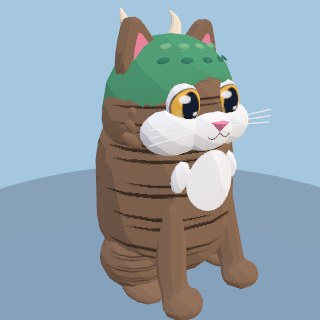
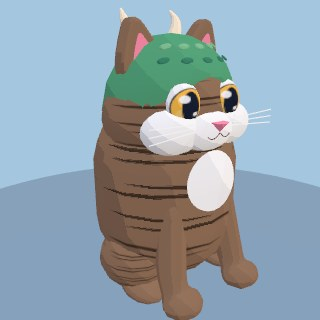
Smooth cat chest and cheek silhouettes without raised fur blobs

diff --git a/src/models.js b/src/models.js
@@ -1067,7 +1067,12 @@ export function createCat(furColor = 0xf0a830, opts = {}) {
   const fitBody=g=>{
     const p=g.attributes.position;
     for(let i=0;i<p.count;i++){
-      const y=p.getY(i),w=(type.belly-1)*(1-THREE.MathUtils.smoothstep(y,1.1,1.6));
+      const y=p.getY(i);
+      // Long fur broadens the continuous upper torso; separate surface puffs
+      // read as lumps, especially on pale coats. The chest decal uses this
+      // same deformation so its marking stays flush with the body.
+      const ruff=(type.ruff||0)*.035*Math.exp(-(((y-1.28)/.38)**2));
+      const w=(type.belly-1)*(1-THREE.MathUtils.smoothstep(y,1.1,1.6))+ruff;
       const curl=type.curl ? .018*Math.sin(Math.atan2(p.getZ(i),p.getX(i))*10+y*18):0;
       p.setX(i,p.getX(i)*(1+w+curl));p.setZ(i,p.getZ(i)*(1+w+curl));
     }
@@ -1314,20 +1319,6 @@ export function createCat(furColor = 0xf0a830, opts = {}) {
     whiskers[sx < 0 ? "L" : "R"] = pivot;
   }
 
-  if(type.ruff){
-    for(let i=-2;i<=2;i++){
-      const tuft=new THREE.Mesh(new THREE.SphereGeometry(.145*type.ruff,8,6),chestMat);
-      tuft.scale.set(.95,1.35,.55);tuft.rotation.z=i*.18;tuft.position.set(i*.19,1.28+Math.abs(i)*.045,.84-Math.abs(i)*.025);catStatic.push(tuft);
-    }
-  }
-  if(type.tufts||type.curl){
-    for(const sx of [-1,1])for(let i=0;i<3;i++){
-      const tuft=new THREE.Mesh(new THREE.SphereGeometry(type.curl ? .105 : .115,8,5),fur);
-      tuft.scale.set(type.curl?1:.72,type.curl?1:1.5,.7);
-      tuft.position.set(sx*(.69+i*.035),-.04-i*.12,.30);
-      tuft.rotation.z=-sx*(.75+i*.16);headStatic.push(tuft);
-    }
-  }
   if(type.folds){
     for(let i=0;i<3;i++){
       const fold=new THREE.Mesh(new THREE.TorusGeometry(.23+i*.05,.011,4,12,1.7),fur);

diff --git a/src/cat-types.js b/src/cat-types.js
@@ -2,7 +2,7 @@
 // accessory anchors; changes are baked only while constructing a model.
 const families = {
   classic: { cheek:1, jaw:1, belly:1, tail:1, plume:1 },
-  longhair: { cheek:1.16, jaw:1.08, belly:1.04, tail:1, plume:1.7, ruff:1, tufts:1 },
+  longhair: { cheek:1.16, jaw:1.08, belly:1.04, tail:1, plume:1.7, ruff:1 },
   plush: { cheek:1.20, jaw:1.12, belly:1.06, tail:.85, plume:1.25 },
   masked: { cheek:1.08, jaw:1.03, belly:1, tail:1, plume:1.4, ruff:.6 },
   sleek: { cheek:.83, jaw:.91, belly:.91, tail:1.02, plume:.82 },
@@ -12,7 +12,7 @@ const families = {
 const type=(label,family,extra={})=>({label,family,ear:'classic',...families[family],...extra});
 export const CAT_TYPES = {
   classic:type('Classic','classic'),
-  maine:type('Maine Coon','longhair',{cheek:1.2,jaw:1.15,tufts:1.2}),
+  maine:type('Maine Coon','longhair',{cheek:1.2,jaw:1.15}),
   forest:type('Norwegian Forest','longhair',{ruff:1.2,cheek:1.10,plume:1.85}),
   persian:type('Persian','longhair',{cheek:1.28,jaw:1.16,ear:'round',tail:.8,plume:1.8}),
   angora:type('Turkish Angora','longhair',{cheek:1.06,belly:.95,plume:1.65,ruff:.65}),

diff --git a/docs/art-refresh/cat-roster/README.md b/docs/art-refresh/cat-roster/README.md
@@ -19,7 +19,7 @@ Six new morphology families supplement the original shape. The same animation ri
 | Distinctive ears/tails | Scottish Fold, American Curl, Manx, Japanese Bobtail |
 | Athletic | Bombay, Ocicat, Egyptian Mau, Toyger, Snow Bengal |
 
-Details include sculpted cheek tufts and chest ruffs, tapered bushy tails, coat waves, a few Sphynx forehead folds, folded/curled/rounded/wider ears, a Manx without a visible tail, a pom-shaped bobtail and two different iris colors on Opal. Coats add **bicolor, mitted points, Van patches, ticking and broad tiger stripes** to the original 12 patterns. Markings remain procedural canvas textures generated once; fur uses opaque geometry.
+Details include smooth fuller cheeks and continuous chest silhouettes, tapered bushy tails, coat waves, a few Sphynx forehead folds, folded/curled/rounded/wider ears, a Manx without a visible tail, a pom-shaped bobtail and two different iris colors on Opal. Coats add **bicolor, mitted points, Van patches, ticking and broad tiger stripes** to the original 12 patterns. Markings remain procedural canvas textures generated once; fur uses opaque geometry.
 
 Headwear openings are generated from each ear shape's convex envelope, with separate geometry-cache keys. The crown of the head, facial attachment points, neck band and paw reach remain standardized so the existing accessory collection is interchangeable. Hats anchor the ears while the head and accessories retain their animation.
 
@@ -32,13 +32,21 @@ Headwear openings are generated from each ear shape's convex envelope, with sepa
 - Old saves used index 14 for Custom Cat. Loading an old save migrates that slot to the new custom index. New saves carry a version and an explicit custom marker, preserving custom selections across later roster expansions. The old outfit, colors and name are retained.
 - The changes are cosmetic: collider dimensions, driving stats, abilities and race field size are unchanged.
 
+## Smooth silhouette correction
+
+The separate chest and cheek puffs read as lumps on pale cats. They have been removed from all 12 affected types, including Persian and Turkish Angora. Long-haired types retain broad, continuous chest volume by shaping the torso and its matching coat decal together; wide cheeks, ears and tails keep each type recognizable. Curly types retain their subtle continuous coat waves without raised cheek beads.
+
+![Marple after smoothing](smooth-cat-16.png) ![Duchess after smoothing](smooth-cat-17.png)
+
+Each affected cat loses **384–784 triangles**, with no increase in material batches or per-frame work. Timber also drops from 21 to 20 batches. [Per-cat comparison against `309e8e0`](smooth-silhouettes.json). All 40 cats were rendered again on WebGL/WebGPU, the 3,321-combination compatibility sweep passed, and catalog portraits and all galleries were regenerated. The frame measurements below are from the preceding roster build; this correction was checked for geometry cost, not re-benchmarked for FPS.
+
 ## Runtime cost
 
 Morphology, coat painting, hat openings and geometry merging happen during model construction. The original rig updates each frame; there is no new fur shader, simulation, light or per-frame morphology work. Each race still constructs six racers. Catalog portraits are static, lazy-loaded images rather than 40 live models.
 
-Cheek/chest additions merge into the existing rigid clusters. Tail geometry is shared by fullness recipe; the existing bounded model/material/texture caches remain in use. Some types add material batches (for example, Opal's second iris color), so this is not a claim of zero rendering cost.
+Cheek and chest shaping uses the existing surfaces, with no separate fur-puff meshes. Tail geometry is shared by fullness recipe; the existing bounded model/material/texture caches remain in use. Some types add material batches (for example, Opal's second iris color), so this is not a claim of zero rendering cost.
 
-The compatibility sweep covers **3,321** type × accessory × pose combinations (27 × 41 × 3), with a maximum **11,087 triangles and 24 material batches** per complete cat. These budget counts include hidden rig meshes and are not renderer frame timings. [Compatibility results](compatibility.json) · [Native WebGL/WebGPU preset metrics](metrics.json).
+The compatibility sweep covers **3,321** type × accessory × pose combinations (27 × 41 × 3), with a maximum **10,667 triangles and 24 material batches** per complete cat. These budget counts include hidden rig meshes and are not renderer frame timings. [Compatibility results](compatibility.json) · [Native WebGL/WebGPU preset metrics](metrics.json).
 
 Native Chrome on Apple M3 Pro, WebGPU High, 1100 × 700 drawing buffer, six racers in Meadow; 8-second warm-up followed by 40 seconds (2,400 sampled frames per run). Runs executed sequentially.
 

diff --git a/docs/art-refresh/cat-roster/roster-table.md b/docs/art-refresh/cat-roster/roster-table.md
@@ -14,25 +14,25 @@
 | Moo | Classic | Collar | 7,516 | 19 |
 | Misty | Classic | Wizard Hat | 8,100 | 19 |
 | Biscuit | Classic | Chef Hat | 7,926 | 19 |
-| Timber | Maine Coon | Dragon Hood | 9,728 | 21 |
-| Fjord | Norwegian Forest | Viking Helmet | 9,756 | 20 |
-| Marple | Persian | Detective Hat | 9,609 | 16 |
-| Duchess | Turkish Angora | Crown | 8,402 | 17 |
-| Russet | Somali | Scarf | 8,144 | 19 |
+| Timber | Maine Coon | Dragon Hood | 8,944 | 20 |
+| Fjord | Norwegian Forest | Viking Helmet | 8,972 | 20 |
+| Marple | Persian | Detective Hat | 8,825 | 16 |
+| Duchess | Turkish Angora | Crown | 7,618 | 17 |
+| Russet | Somali | Scarf | 7,360 | 19 |
 | Winston | British Shorthair | Top Hat | 8,302 | 19 |
 | Pudding | Exotic Shorthair | Mushroom Cap | 8,593 | 18 |
 | Pebble | Chartreux | Rain Hat | 8,167 | 16 |
-| Crumpet | Selkirk Rex | Straw Sunhat | 9,377 | 16 |
-| Marshmallow | Ragdoll | Unicorn Horn | 9,336 | 20 |
-| Chai | Birman | Flower Lei | 9,996 | 19 |
-| Skipper | Turkish Van | Pirate Hat | 8,731 | 19 |
+| Crumpet | Selkirk Rex | Straw Sunhat | 8,993 | 16 |
+| Marshmallow | Ragdoll | Unicorn Horn | 8,936 | 20 |
+| Chai | Birman | Flower Lei | 9,596 | 19 |
+| Skipper | Turkish Van | Pirate Hat | 8,331 | 19 |
 | Opal | Khao Manee | Cat-Eye Goggles | 7,752 | 17 |
 | Orbit | Sphynx | Space Helmet | 10,104 | 18 |
-| Fizz | Devon Rex | Bee Antennae | 8,732 | 19 |
-| Noodle | Cornish Rex | Oversized Mustache | 7,880 | 16 |
+| Fizz | Devon Rex | Bee Antennae | 8,348 | 19 |
+| Noodle | Cornish Rex | Oversized Mustache | 7,496 | 16 |
 | Saffron | Abyssinian | Sombrero | 9,770 | 19 |
 | Dumpling | Scottish Fold | Rubber-duck Hat | 7,988 | 19 |
-| Clover | American Curl | Frog Hood | 9,697 | 19 |
+| Clover | American Curl | Frog Hood | 9,297 | 19 |
 | Rumpus | Manx | Bandana | 7,496 | 20 |
 | Yoshi | Japanese Bobtail | Propeller Beanie | 7,897 | 19 |
 | Inky | Bombay | Shark Fin | 7,460 | 16 |
